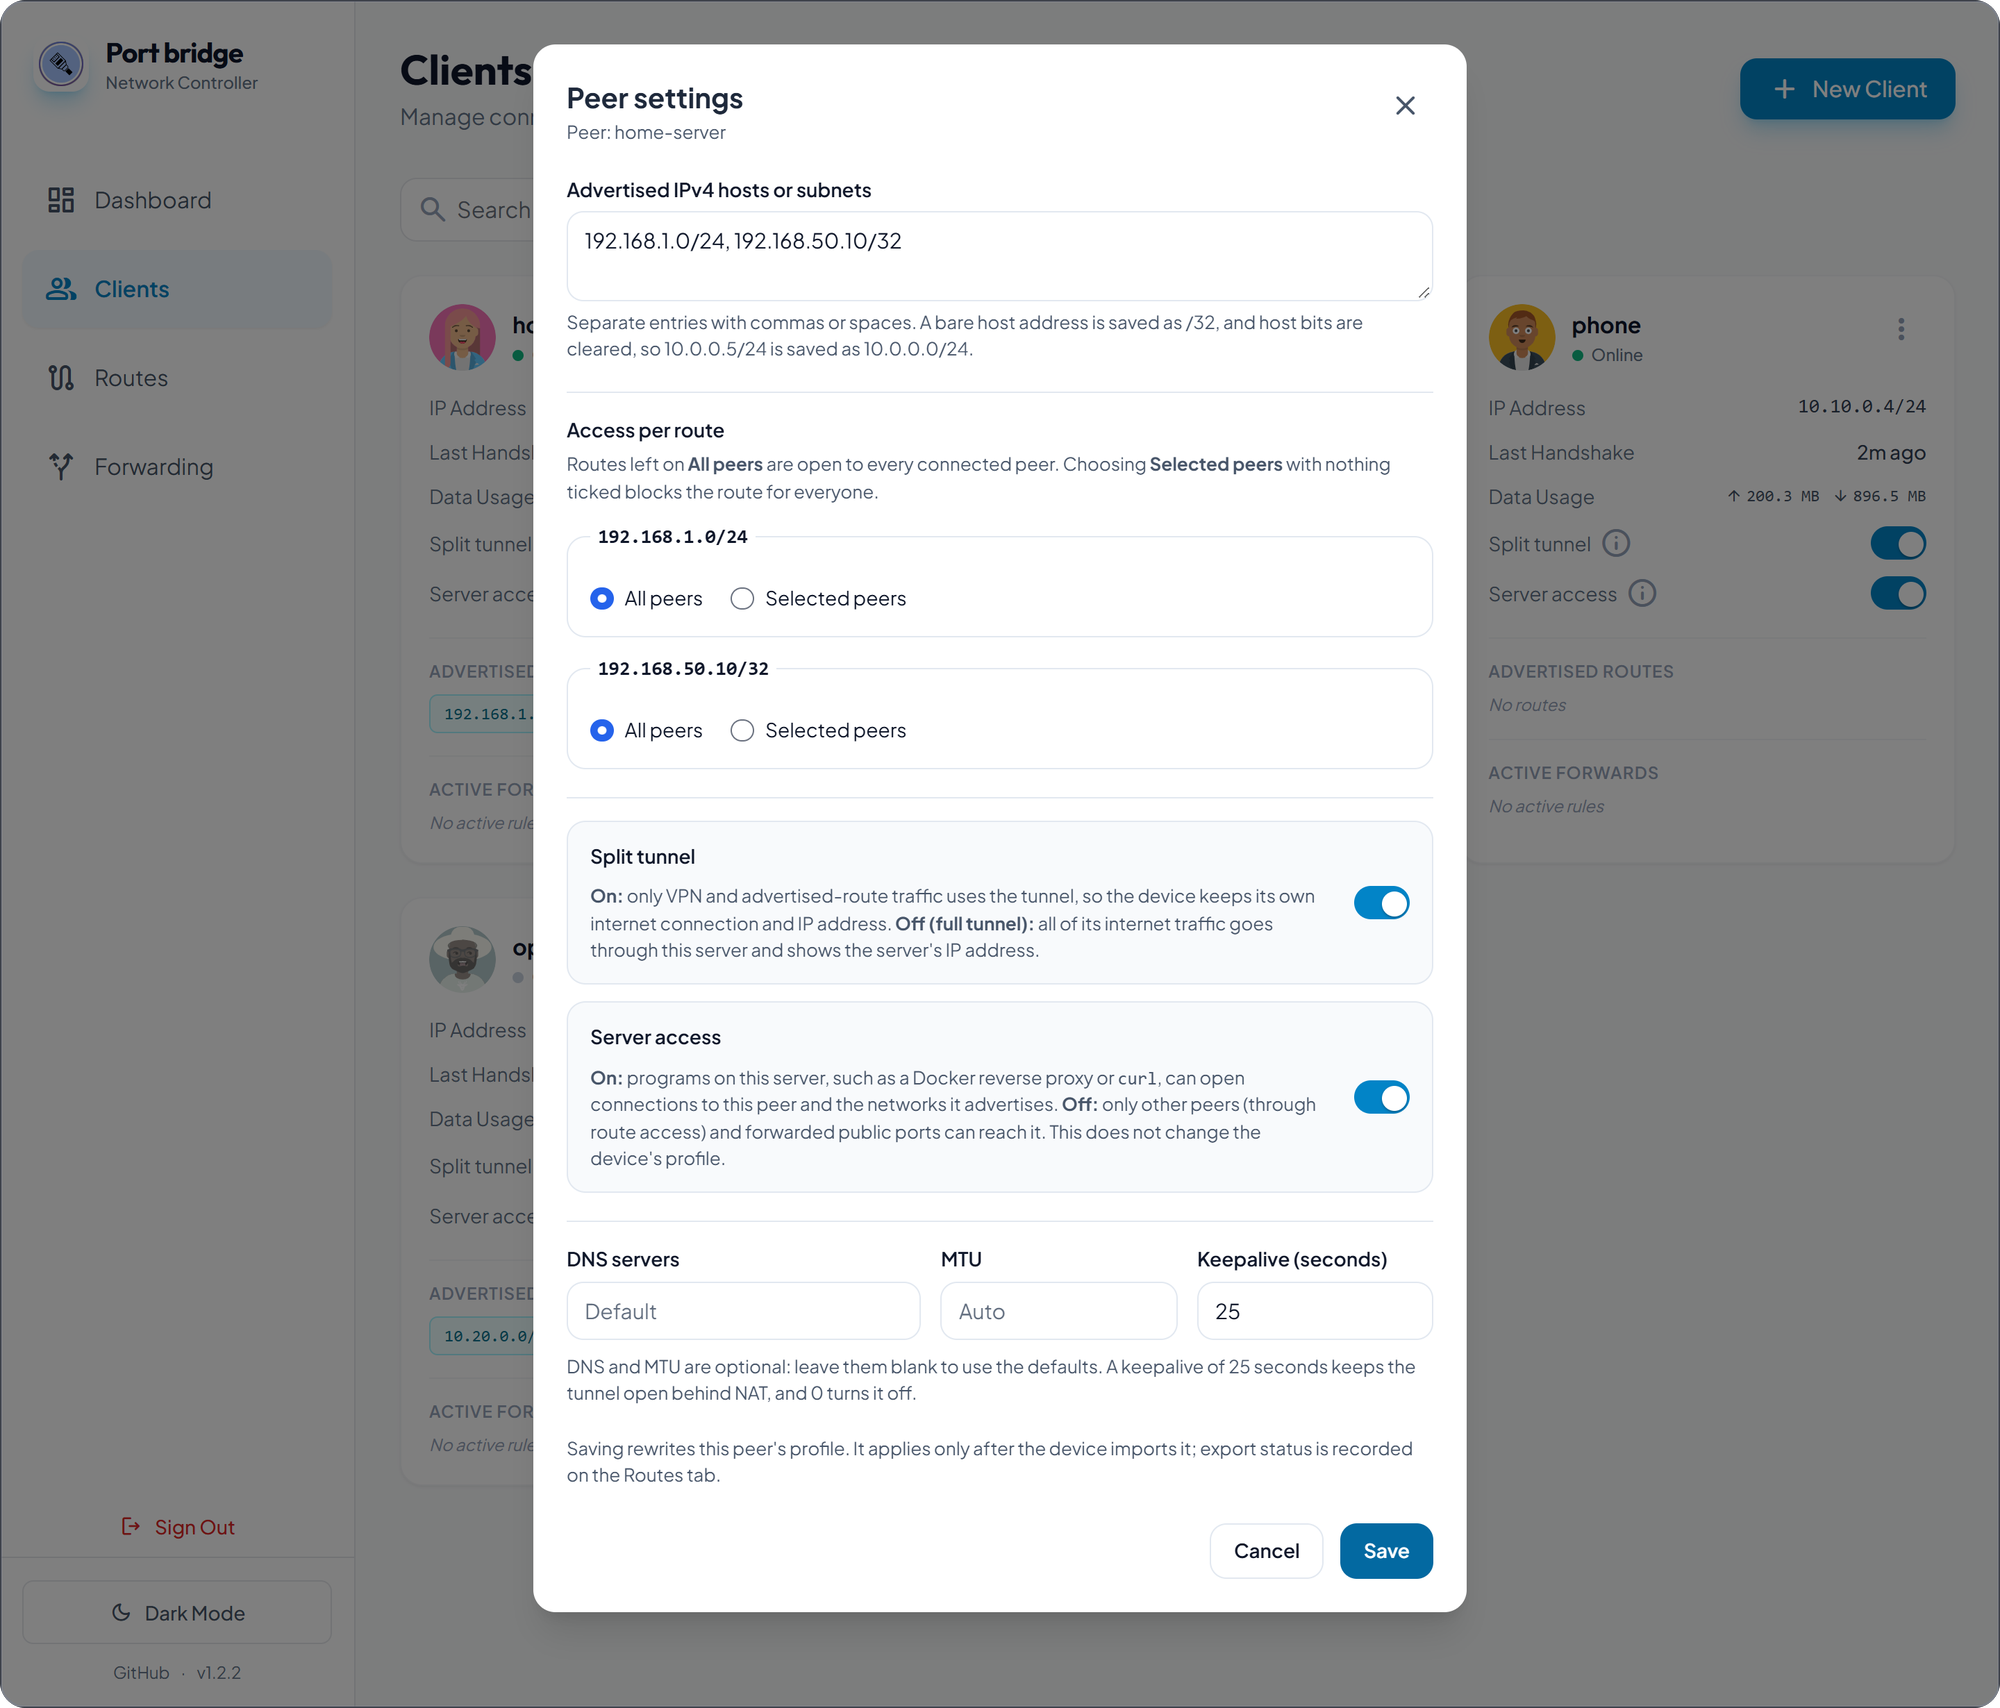
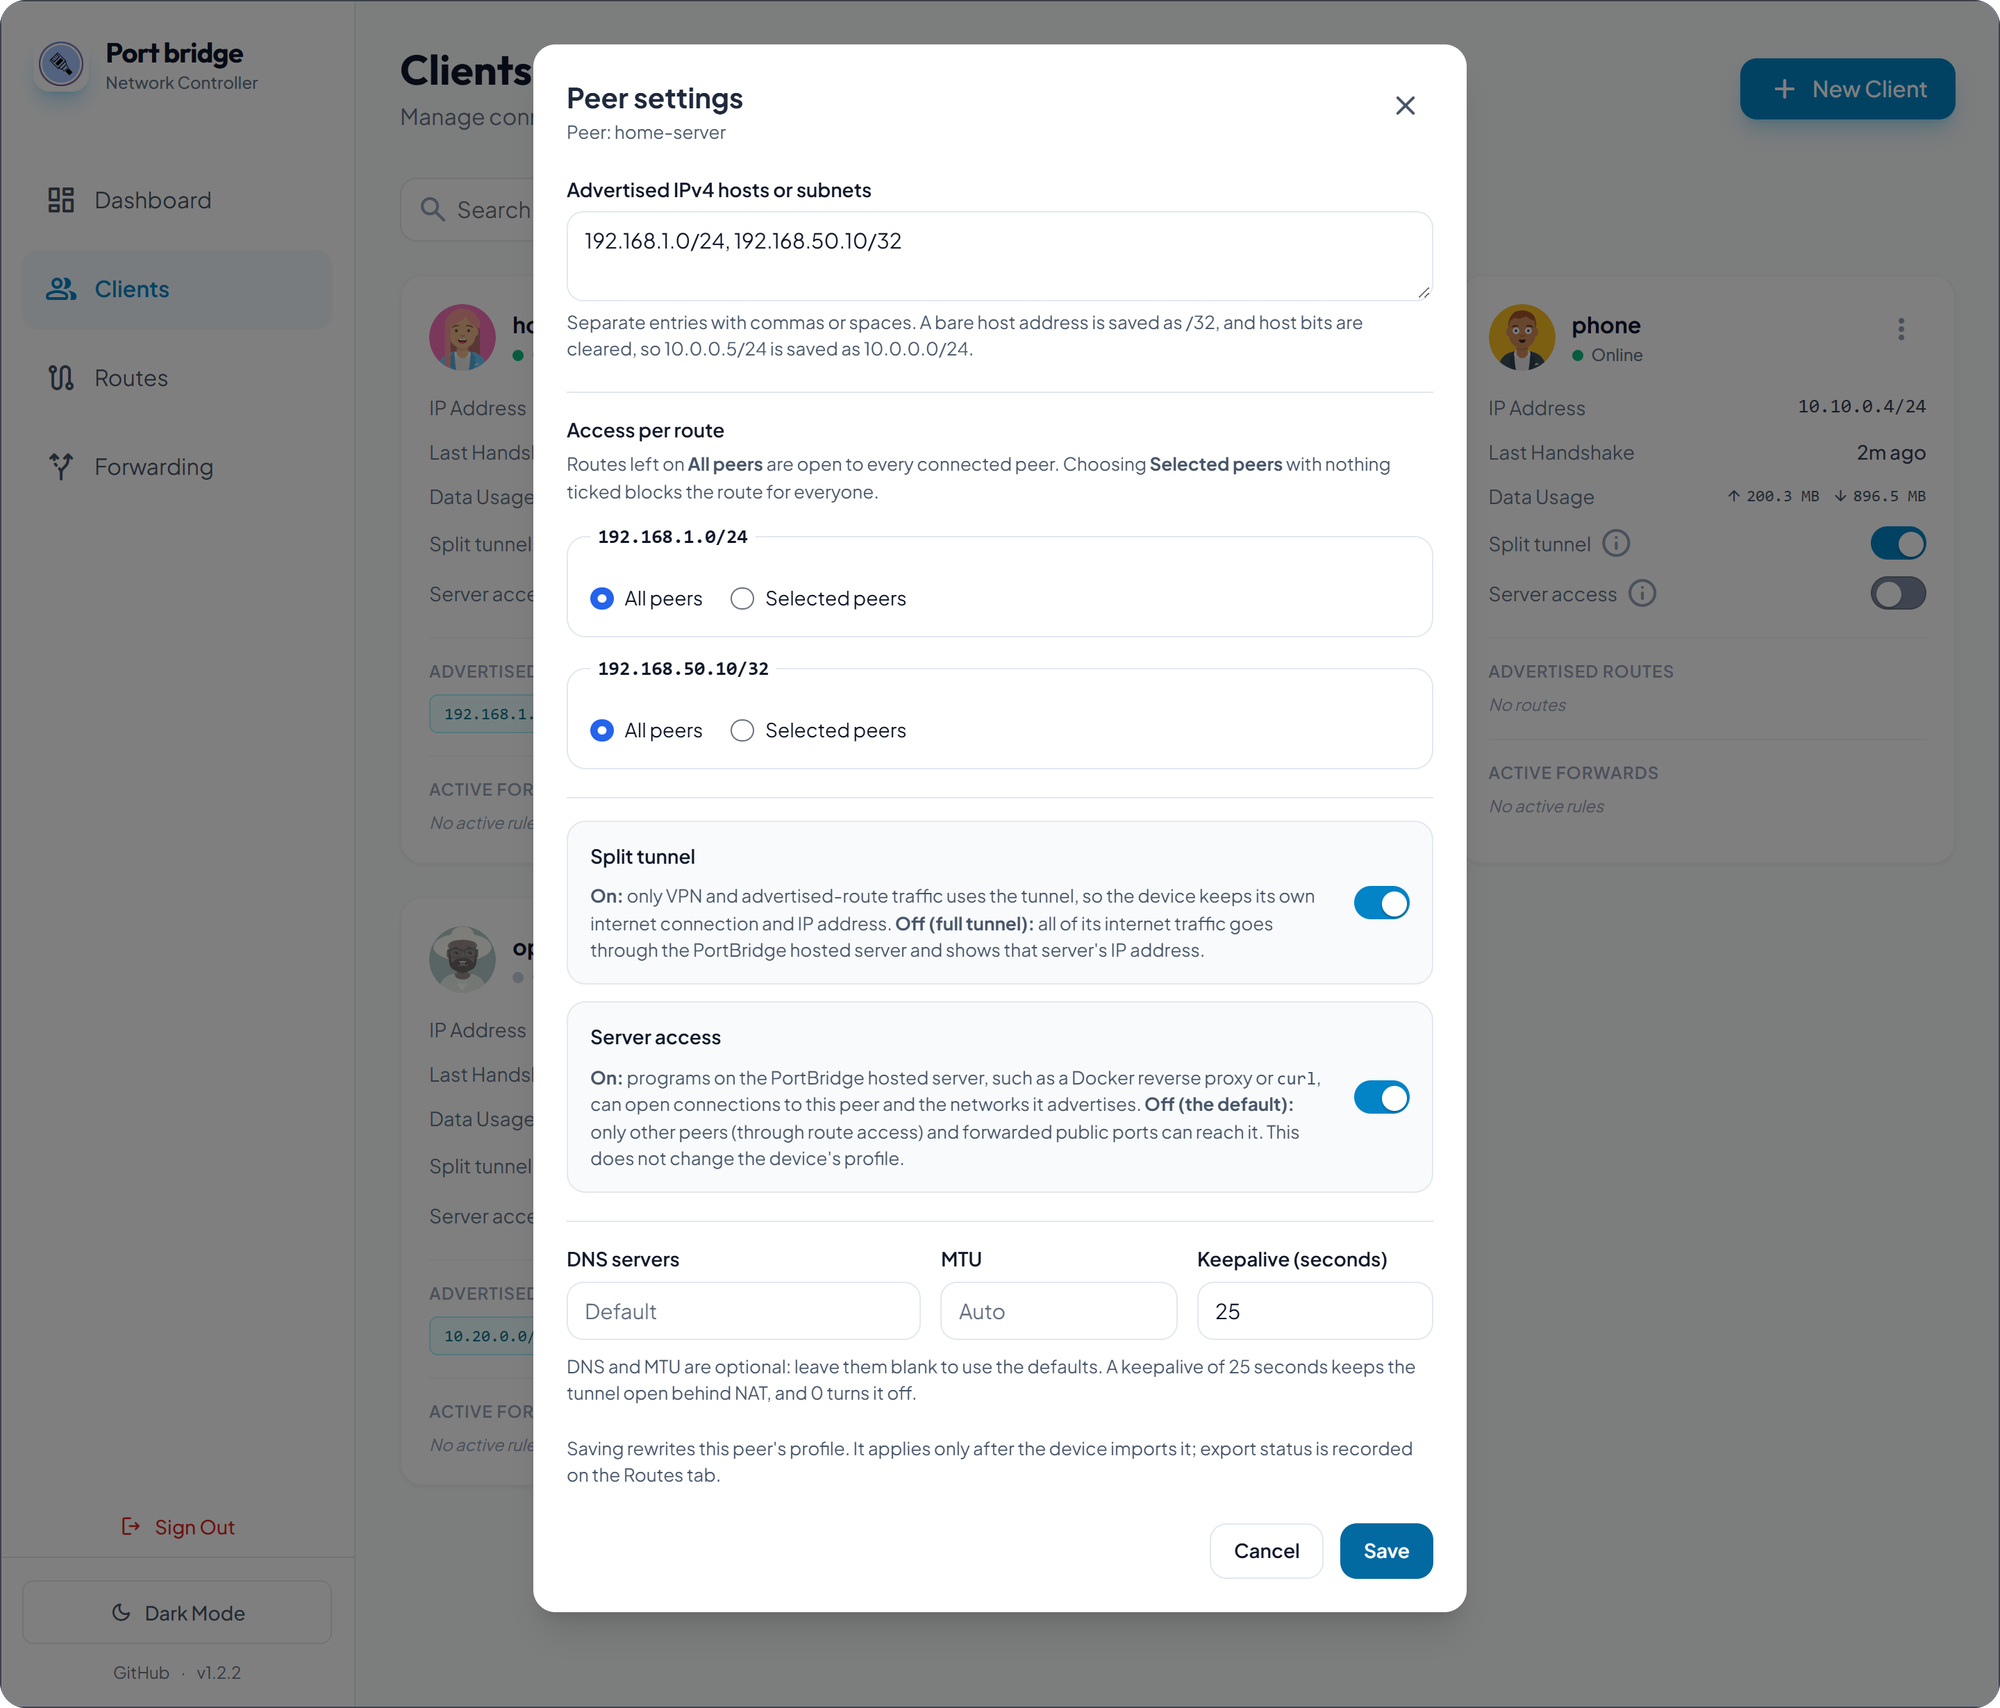
Make Server access off by default and say PortBridge hosted server

Changed region(s): [[0.31, 0.6206, 0.651, 0.6827], [0.93, 0.3413, 0.961, 0.3724], [0.372, 0.5275, 0.403, 0.5585]]

diff --git a/app/templates/components/clients.html b/app/templates/components/clients.html
@@ -110,7 +110,7 @@
                     <span role="tooltip" class="pb-tip__bubble" :id="'split-tip-' + client.public_key">
                         <strong>Split tunnel</strong>
                         <span>On: only VPN and advertised-route traffic uses the tunnel, so this device keeps its own internet connection and IP address.</span>
-                        <span>Off (full tunnel): all of its internet traffic goes through this server and shows the server's IP. Re-import the profile after changing it.</span>
+                        <span>Off (full tunnel): all of its internet traffic goes through the PortBridge hosted server and shows that server's IP. Re-import the profile after changing it.</span>
                     </span>
                 </div>
 
@@ -122,13 +122,13 @@
                     </label>
                     <input type="checkbox" switch role="switch" class="pb-switch"
                         :id="'local-' + client.public_key"
-                        :checked="!client.options || client.options.local_access !== false"
+                        :checked="!!client.options && client.options.local_access === true"
                         :aria-describedby="'local-tip-' + client.public_key"
                         @change="toggleLocalAccess(client, $event)">
                     <span role="tooltip" class="pb-tip__bubble" :id="'local-tip-' + client.public_key">
                         <strong>Server access</strong>
-                        <span>On: programs on this server, such as a Docker reverse proxy or curl, can open connections to this peer and the networks it advertises.</span>
-                        <span>Off: only other peers (through route access) and forwarded public ports can reach it. No profile change is needed.</span>
+                        <span>On: programs on the PortBridge hosted server, such as a Docker reverse proxy or curl, can open connections to this peer and the networks it advertises.</span>
+                        <span>Off (the default): only other peers (through route access) and forwarded public ports can reach it. No profile change is needed.</span>
                     </span>
                 </div>
 

diff --git a/app/templates/components/modals.html b/app/templates/components/modals.html
@@ -391,8 +391,8 @@
                     <p id="peer-split-help" class="pb-hint pb-hint--tight">
                         <strong>On:</strong> only VPN and advertised-route traffic uses the tunnel, so the device keeps
                         its own internet connection and IP address.
-                        <strong>Off (full tunnel):</strong> all of its internet traffic goes through this server and
-                        shows the server's IP address.
+                        <strong>Off (full tunnel):</strong> all of its internet traffic goes through the PortBridge hosted
+                        server and shows that server's IP address.
                     </p>
                 </div>
                 <input id="peer-split-tunnel" type="checkbox" switch role="switch" class="pb-switch"
@@ -402,10 +402,10 @@
                 <div class="pb-setting__text">
                     <label for="peer-local-access" class="pb-label">Server access</label>
                     <p id="peer-local-access-help" class="pb-hint pb-hint--tight">
-                        <strong>On:</strong> programs on this server, such as a Docker reverse proxy or
-                        <code>curl</code>, can open connections to this peer and the networks it advertises.
-                        <strong>Off:</strong> only other peers (through route access) and forwarded public
-                        ports can reach it. This does not change the device's profile.
+                        <strong>On:</strong> programs on the PortBridge hosted server, such as a Docker reverse proxy
+                        or <code>curl</code>, can open connections to this peer and the networks it advertises.
+                        <strong>Off (the default):</strong> only other peers (through route access) and
+                        forwarded public ports can reach it. This does not change the device's profile.
                     </p>
                 </div>
                 <input id="peer-local-access" type="checkbox" switch role="switch" class="pb-switch"

diff --git a/app/static/js/app.js b/app/static/js/app.js
@@ -123,7 +123,7 @@ function app() {
             });
         },
 
-        /** Allow or block programs on the server (such as a Docker reverse proxy) from reaching a peer. */
+        /** Allow or block programs on the PortBridge hosted server (such as a Docker reverse proxy) from reaching a peer. */
         async toggleLocalAccess(client, event) {
             const input = event.target;
             const enabled = input.checked;
@@ -135,8 +135,8 @@ function app() {
                     body: JSON.stringify({ local_access: enabled }),
                 }).then(this.checkAuth);
                 this.showToast(enabled
-                    ? `Server access on for ${client.name}. Programs on this server can reach it.`
-                    : `Server access off for ${client.name}. Programs on this server can no longer reach it.`);
+                    ? `Server access on for ${client.name}. Programs on the PortBridge hosted server can reach it.`
+                    : `Server access off for ${client.name}. Programs on the PortBridge hosted server can no longer reach it.`);
                 await this.loadData();
             } catch (error) {
                 input.checked = !enabled;
@@ -175,7 +175,7 @@ function app() {
                 }).then(this.checkAuth);
                 this.showToast(enabled
                     ? `Split tunnel on for ${client.name}. Re-import its profile on the device.`
-                    : `Full tunnel on for ${client.name}: all its traffic uses this server. Re-import its profile.`);
+                    : `Full tunnel on for ${client.name}: all its traffic uses the PortBridge hosted server. Re-import its profile.`);
                 await this.loadData();
             } catch (error) {
                 input.checked = !enabled;

diff --git a/src/config.rs b/src/config.rs
@@ -216,11 +216,12 @@ impl Config {
             static_dir,
             // Peers may reach the internet through the server unless this is
             // switched off with ALLOW_INTERNET_EGRESS=0.
-            // Services on this server, such as a Docker reverse proxy, may reach peers
-            // unless this is switched off with ALLOW_LOCAL_TO_PEERS=0.
-            allow_local_to_peers: !matches!(
+            // Programs on the PortBridge hosted server, such as a Docker reverse proxy,
+            // may reach a peer only when it is switched on for that peer. This is the
+            // default for peers without a setting; ALLOW_LOCAL_TO_PEERS=1 makes it on.
+            allow_local_to_peers: matches!(
                 env::var("ALLOW_LOCAL_TO_PEERS").as_deref(),
-                Ok("0" | "false")
+                Ok("1" | "true")
             ),
             allow_internet_egress: !matches!(
                 env::var("ALLOW_INTERNET_EGRESS").as_deref(),
@@ -271,7 +272,7 @@ impl Config {
             nat_chain: "WG_FORWARDER".to_string(),
             filter_chain: "WG_FORWARDER_FWD".to_string(),
             allow_internet_egress: false,
-            allow_local_to_peers: true,
+            allow_local_to_peers: false,
             seed_forwarding: false,
             enable_ipv4_forwarding: false,
         }

diff --git a/src/iptables.rs b/src/iptables.rs
@@ -495,7 +495,7 @@ mod tests {
     }
 
     #[test]
-    fn local_services_may_reach_peers_and_their_routes_by_default() {
+    fn local_programs_may_reach_peers_and_their_routes_when_the_default_is_on() {
         let clients = vec![
             peer(
                 "home",

diff --git a/README.md b/README.md
@@ -183,11 +183,11 @@ Open **Forwarding**, create a rule, and choose a public port, protocol, target p
 
 The service sees the original client address, so its replies must return through WireGuard. With a split-tunnel profile, add a return route for the permitted sources, or use a full-tunnel profile. Allow the public port through your firewalls, and for Docker add the port to the Compose `ports` list, for example `"30000:30000/tcp"`.
 
-### Reach peers from the server
+### Reach peers from the PortBridge server
 
-Programs on the server itself can open connections to peers: a Docker container such as Nginx Proxy Manager, a script, or `curl`. That makes the server a reverse proxy for services that live behind NAT. Point a proxy host at a peer's tunnel address (for example `http://10.10.0.2:8080`) or at a subnet the peer advertises (for example `http://192.168.1.106:8080`). Peers can only answer these connections. They cannot start new ones to the server's other services.
+Programs on the server that hosts PortBridge can open connections to a peer once you switch **Server access** on for it: a Docker container such as Nginx Proxy Manager, a script, or `curl`. That makes the server a reverse proxy for services that live behind NAT. It is off by default. Point a proxy host at a peer's tunnel address (for example `http://10.10.0.2:8080`) or at a subnet the peer advertises (for example `http://192.168.1.106:8080`). Peers can only answer these connections. They cannot start new ones to the server's other services.
 
-Each peer has a **Server access** switch on its card and in its settings, so you can allow it for the peers you proxy and block it for the rest. `ALLOW_LOCAL_TO_PEERS` sets the default for peers that have not been switched either way, and `ALLOW_LOCAL_TO_PEERS=0` makes the default off.
+Each peer has a **Server access** switch on its card and in its settings, so you can allow it for the peers you proxy and leave it off for the rest. Set `ALLOW_LOCAL_TO_PEERS=1` to make it on by default for peers that have not been switched either way.
 
 ### Internet access through the VPN
 
@@ -208,7 +208,7 @@ PortBridge is configured through environment variables.
 | `APP_HOST` / `APP_PORT` | `0.0.0.0` / `3000` | Dashboard bind address |
 | `DATA_DIR` | `/data` | Where keys and state are stored |
 | `ALLOW_INTERNET_EGRESS` | allowed | Set to `0` to block peer internet access through the server |
-| `ALLOW_LOCAL_TO_PEERS` | allowed | Default for the per-peer **Server access** switch: whether programs on the server, such as a Docker reverse proxy, may open connections to a peer. Set to `0` to make it off by default |
+| `ALLOW_LOCAL_TO_PEERS` | off | Default for the per-peer **Server access** switch: whether programs on the PortBridge hosted server, such as a Docker reverse proxy, may open connections to a peer. Set to `1` to make it on by default |
 
 ## Upgrading
 

diff --git a/CHANGELOG.md b/CHANGELOG.md
@@ -5,6 +5,18 @@ All notable changes to PortBridge are listed here. The format follows
 [Semantic Versioning](https://semver.org/). Each release on GitHub carries the
 notes for its version.
 
+## [1.3.1] - 2026-11-24
+
+### Changed
+
+- **Server access is off by default.** Programs on the PortBridge hosted server,
+  such as a Docker reverse proxy, can reach a peer only after you switch Server
+  access on for it. `ALLOW_LOCAL_TO_PEERS` is now `off` unless set to `1`, and it
+  is the default for peers that have no setting of their own. Peers that relied
+  on the previous default need the switch turned on to keep working.
+- The Server access explanations, toasts and docs now say "the PortBridge hosted
+  server" instead of "this server".
+
 ## [1.3.0] - 2026-11-24
 
 ### Added
@@ -192,6 +204,7 @@ First release of the Rust version of PortBridge: a WireGuard server with a web
 dashboard, per-peer routes with access rules, and public TCP and UDP port
 forwarding.
 
+[1.3.1]: https://github.com/nooblk-98/portbridge/compare/v1.3.0...v1.3.1
 [1.3.0]: https://github.com/nooblk-98/portbridge/compare/v1.2.5...v1.3.0
 [1.2.5]: https://github.com/nooblk-98/portbridge/compare/v1.2.4...v1.2.5
 [1.2.4]: https://github.com/nooblk-98/portbridge/compare/v1.2.3...v1.2.4
